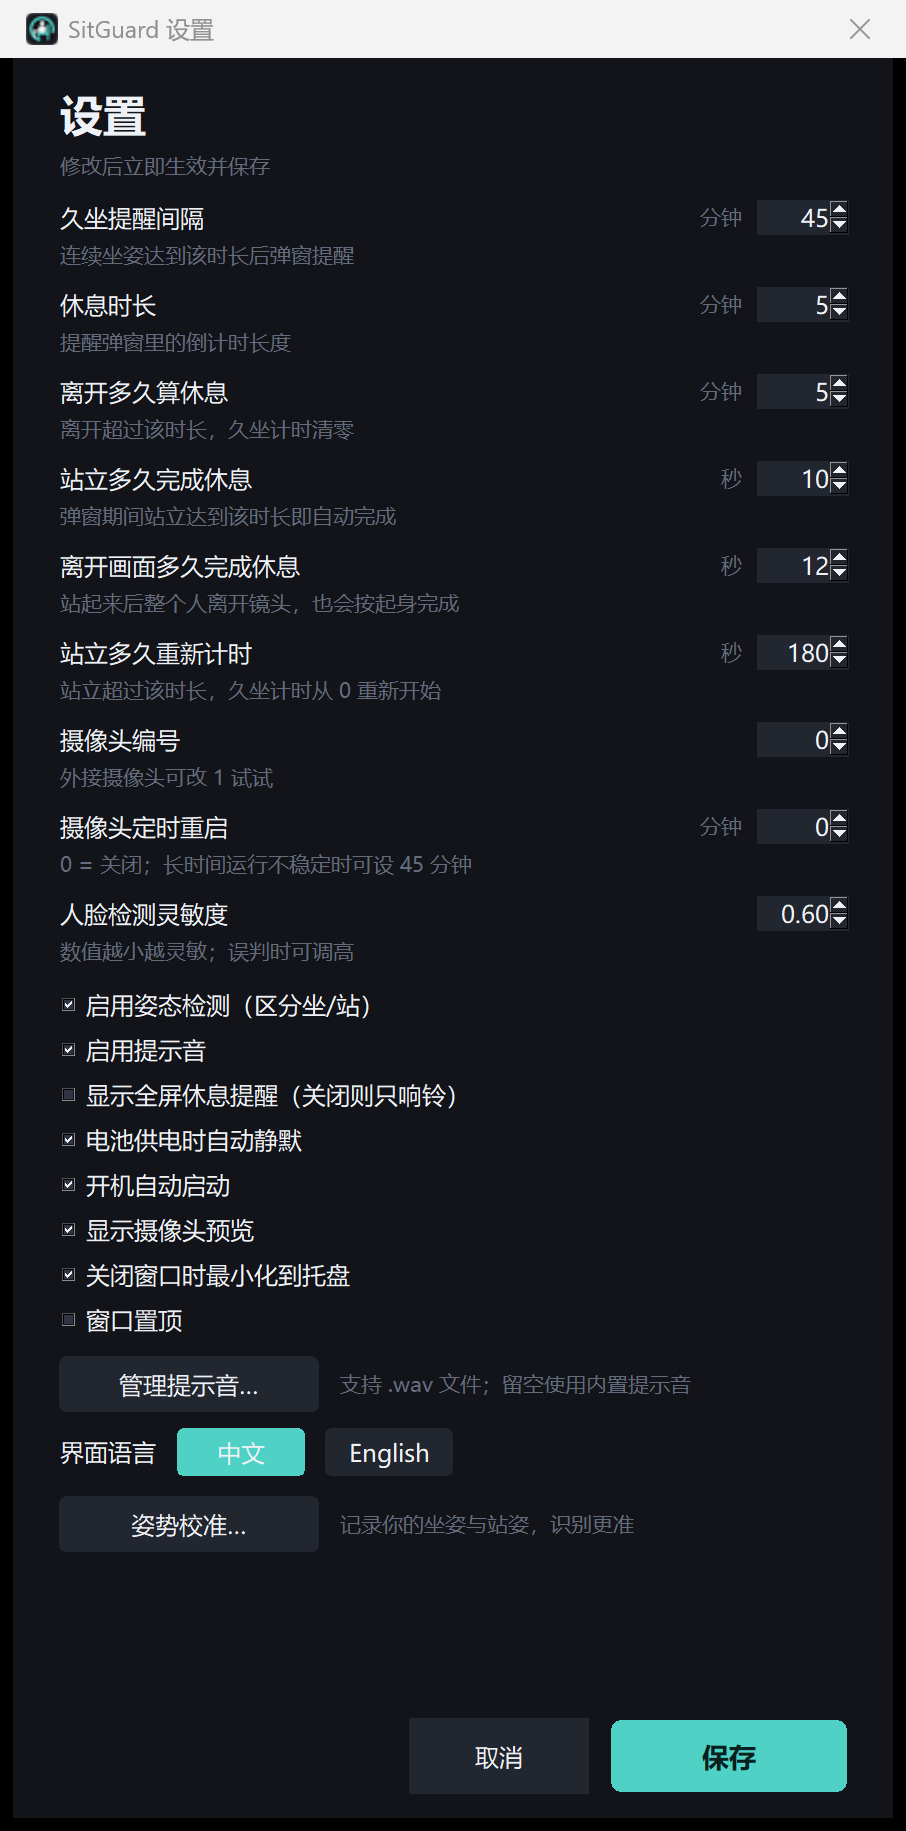
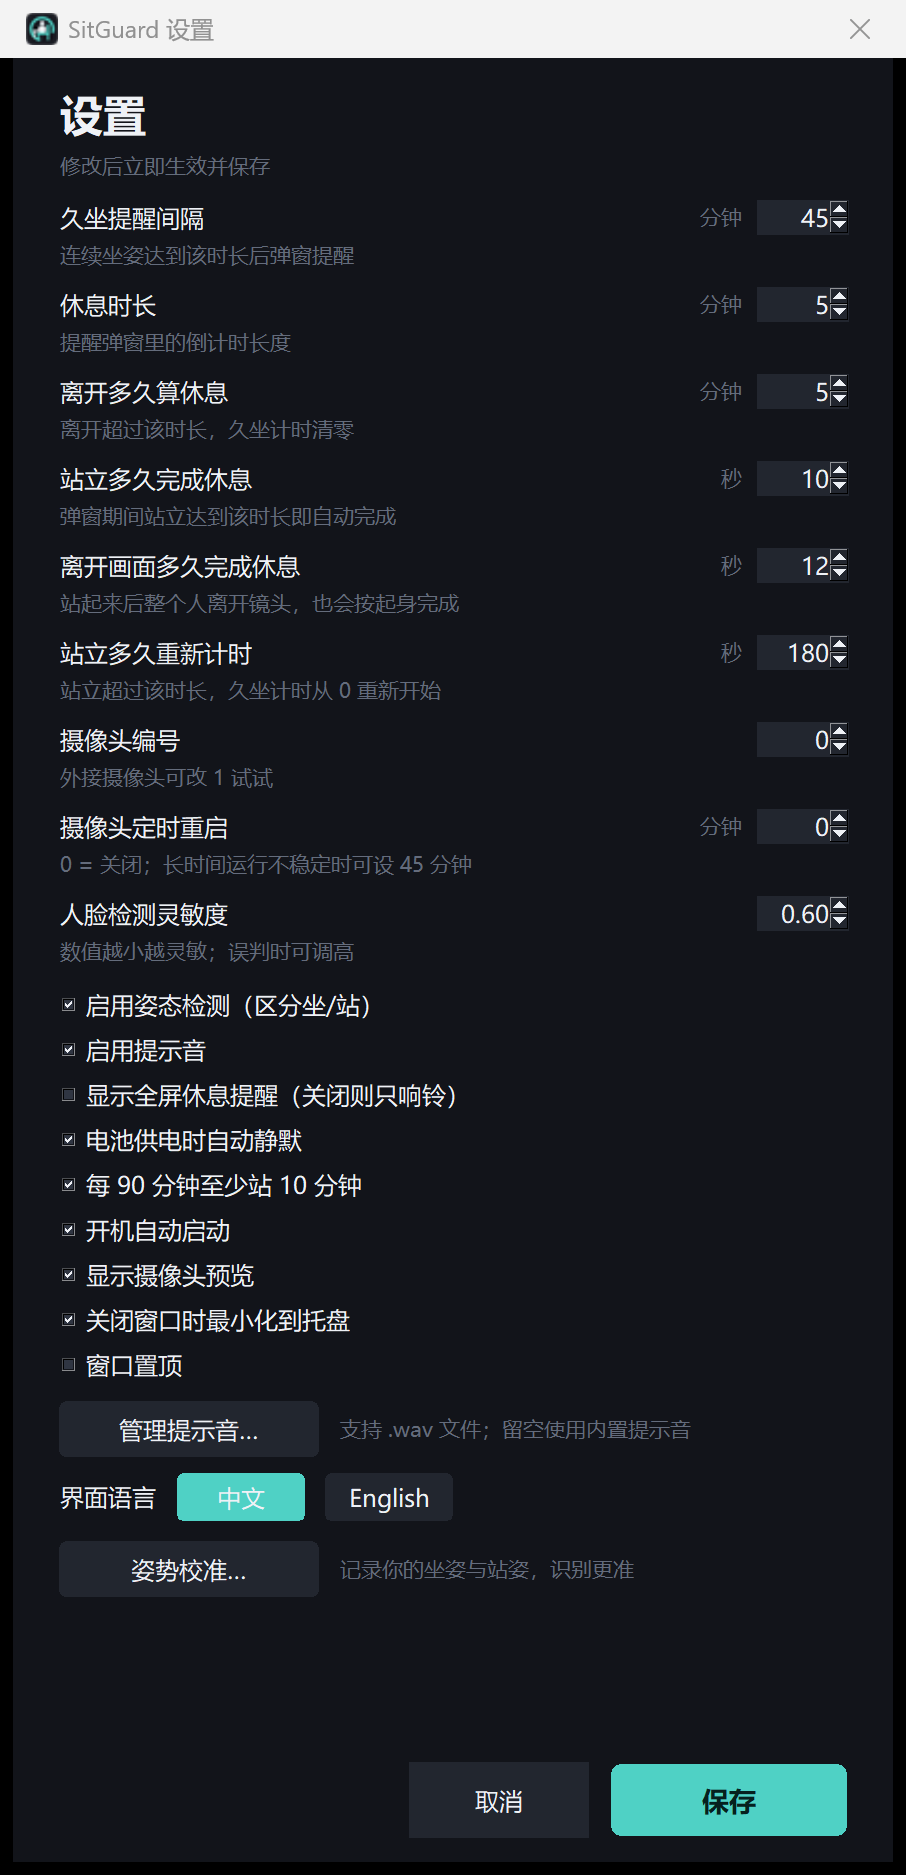
feat: remind when standing time is under 10 min in 90 min
Track rolling standing time from activity segments and send a gentle toast plus optional sound when less than 10 minutes were spent standing in the last 90 minutes. Skips breaks, pauses and away periods, repeats at most every 30 minutes, and can be disabled in Settings.

diff --git a/sitguard/app.py b/sitguard/app.py
@@ -91,6 +91,9 @@ class App:
         self._confirmed_posture: str | None = None
         self._posture_confirmed_at = 0.0
         self._last_posture_sound = 0.0
+        self._stand_goal_started = time.monotonic()
+        self._stand_goal_last = 0.0
+        self._last_stand_check = 0.0
         self._last_stats_save = time.monotonic()
         self._last_preview = 0.0
         self._tray = None
@@ -357,6 +360,7 @@ class App:
             self.engine.tick(now)
             self._track_posture(now)
             self._track_activity()
+            self._check_stand_goal(now)
             try:
                 view = bool(self.root.winfo_exists()) and self.root.state() != "withdrawn"
             except tk.TclError:
@@ -524,6 +528,44 @@ class App:
         if self._booted:
             key = "toast_silent_on" if active else "toast_silent_off"
             self.notify(i18n.t(key), ui.ACCENT if active else ui.TEXT_DIM)
+
+    def _check_stand_goal(self, now: float) -> None:
+        """滚动窗口内站立不足时给一次温和提醒。"""
+        cfg = self.config
+        if not cfg.stand_goal_enabled:
+            return
+        if now - self._last_stand_check < 20.0:
+            return
+        self._last_stand_check = now
+        window = cfg.stand_goal_window_minutes * 60.0
+        if now - self._stand_goal_started < window:
+            return
+        if self.engine.phase in (Phase.BREAK, Phase.PAUSED):
+            return
+        snap = self.engine.snapshot(self._camera_state, self._camera_message,
+                                    self._camera_snapshot.status.pose_ok)
+        if not snap.present or snap.posture == "standing":
+            return
+        end = time.time()
+        start = end - window
+        standing = self.activity.seconds_between("standing", start, end)
+        sitting = self.activity.seconds_between("sitting", start, end)
+        if sitting < min(1800.0, window * 0.3):
+            return
+        goal = cfg.stand_goal_minutes * 60.0
+        if standing >= goal:
+            self._stand_goal_last = 0.0
+            return
+        repeat = cfg.stand_goal_repeat_minutes * 60.0
+        if self._stand_goal_last and now - self._stand_goal_last < repeat:
+            return
+        self._stand_goal_last = now
+        self.notify(i18n.t("toast_stand_goal", w=cfg.stand_goal_window_minutes,
+                           s=i18n.fmt_duration(standing)), ui.WARN, ms=4500)
+        if cfg.sound and not self.is_silent():
+            sound.reminder_sound(cfg.sound_file, cfg.sound_name)
+        log.info("站立不足提醒：%.0f 秒 / %d 分钟窗口", standing,
+                 cfg.stand_goal_window_minutes)
 
     def _track_posture(self, now: float) -> None:
         snap = self.engine.snapshot(self._camera_state, self._camera_message,

diff --git a/sitguard/views.py b/sitguard/views.py
@@ -879,7 +879,7 @@ class SettingsWindow:
         win.configure(bg=ui.BG)
         win.resizable(False, False)
         win.transient(self.root)
-        ui.center_window(win, ui.dp(440), ui.dp(880), anchor="center")
+        ui.center_window(win, ui.dp(440), ui.dp(902), anchor="center")
         win.protocol("WM_DELETE_WINDOW", self.close)
 
         body = tk.Frame(win, bg=ui.BG)
@@ -918,6 +918,7 @@ class SettingsWindow:
         self._check(body, "chk_sound", "sound")
         self._check(body, "chk_overlay", "overlay_enabled")
         self._check(body, "chk_auto_silent", "auto_silent_on_battery")
+        self._check(body, "chk_stand_goal", "stand_goal_enabled")
         self._check(body, "chk_autostart", "autostart")
         self._check(body, "chk_preview", "show_preview")
         self._check(body, "chk_tray", "minimize_to_tray")
@@ -1008,6 +1009,7 @@ class SettingsWindow:
         self.vars["sound"].set(cfg.sound)
         self.vars["overlay_enabled"].set(cfg.overlay_enabled)
         self.vars["auto_silent_on_battery"].set(cfg.auto_silent_on_battery)
+        self.vars["stand_goal_enabled"].set(cfg.stand_goal_enabled)
         self.vars["autostart"].set(cfg.autostart)
         self.vars["show_preview"].set(cfg.show_preview)
         self.vars["minimize_to_tray"].set(cfg.minimize_to_tray)
@@ -1032,6 +1034,7 @@ class SettingsWindow:
         cfg.sound = bool(self.vars["sound"].get())
         cfg.overlay_enabled = bool(self.vars["overlay_enabled"].get())
         cfg.auto_silent_on_battery = bool(self.vars["auto_silent_on_battery"].get())
+        cfg.stand_goal_enabled = bool(self.vars["stand_goal_enabled"].get())
         cfg.autostart = bool(self.vars["autostart"].get())
         cfg.show_preview = bool(self.vars["show_preview"].get())
         cfg.minimize_to_tray = bool(self.vars["minimize_to_tray"].get())

diff --git a/sitguard/config.py b/sitguard/config.py
@@ -74,6 +74,10 @@ class Config:
     stand_sound: str = "stand_up" # 站起提示音
     silent_mode: bool = False     # 静默模式：无声音、无全屏，只右下角提示
     auto_silent_on_battery: bool = True
+    stand_goal_enabled: bool = True
+    stand_goal_window_minutes: int = 90
+    stand_goal_minutes: int = 10
+    stand_goal_repeat_minutes: int = 30
     overlay_enabled: bool = True    # 是否显示全屏提醒；关闭则只响铃
     sound_repeat: int = 3            # 提醒音重复次数
     snooze_minutes: int = 5          # 临时推迟
@@ -114,6 +118,10 @@ class Config:
         c.stand_sound = str(c.stand_sound or "stand_up")
         c.silent_mode = bool(c.silent_mode)
         c.auto_silent_on_battery = bool(c.auto_silent_on_battery)
+        c.stand_goal_enabled = bool(c.stand_goal_enabled)
+        c.stand_goal_window_minutes = int(clamp(c.stand_goal_window_minutes, 30, 240))
+        c.stand_goal_minutes = int(clamp(c.stand_goal_minutes, 5, 60))
+        c.stand_goal_repeat_minutes = int(clamp(c.stand_goal_repeat_minutes, 10, 120))
         c.overlay_enabled = bool(c.overlay_enabled)
         c.snooze_minutes = int(clamp(c.snooze_minutes, 1, 120))
         c.auto_snooze_minutes = int(clamp(c.auto_snooze_minutes, 1, 30))

diff --git a/tests/test_daylog.py b/tests/test_daylog.py
@@ -80,6 +80,19 @@ class TestActivityTracker(unittest.TestCase):
         self.now += 60
         keys = self.tracker.all_days(self.now)
         self.assertIn(datetime.fromtimestamp(self.now).date().isoformat(), keys)
+
+    def test_seconds_between(self):
+        t = self.tracker
+        t.update("sitting", self.now)
+        self.now += 600
+        t.update("standing", self.now)
+        self.now += 120
+        t.update("sitting", self.now)
+        end = self.now
+        stand = t.seconds_between("standing", end - 900, end)
+        self.assertAlmostEqual(stand, 120, delta=1)
+        sit = t.seconds_between("sitting", end - 900, end)
+        self.assertAlmostEqual(sit, 600, delta=1)
     def test_persisted_shape(self):
         self.tracker.update("sitting", self.now)
         self.now += 60

diff --git a/sitguard/daylog.py b/sitguard/daylog.py
@@ -130,6 +130,17 @@ class ActivityTracker:
         segs.sort(key=lambda x: x[0])
         return segs
 
+    def seconds_between(self, kind: str, start: float, end: float,
+                        now: float | None = None) -> float:
+        """统计 [start, end) 内某状态的时长，支持跨午夜。"""
+        total = 0.0
+        for key in {_day_key(start), _day_key(end)}:
+            for s, e, k in self.segments_for(key, now):
+                if k != kind:
+                    continue
+                total += max(0.0, min(e, end) - max(s, start))
+        return total
+
     def totals_for(self, key: str, now: float | None = None) -> dict[str, float]:
         totals = {k: 0.0 for k in KINDS}
         for start, end, kind in self.segments_for(key, now):

diff --git a/sitguard/i18n.py b/sitguard/i18n.py
@@ -200,6 +200,10 @@ _T = {
                     "Show full-screen break reminder (off = sound only)"),
     "chk_auto_silent": ("电池供电时自动静默",
                        "Silent mode on battery power"),
+    "chk_stand_goal": ("每 90 分钟至少站 10 分钟",
+                       "Stand at least 10 min every 90 min"),
+    "toast_stand_goal": ("过去 {w} 分钟只站了 {s}，起来活动一下吧",
+                         "Only {s} standing in the last {w} min — time to move"),
     "silent": ("静音", "Silent"),
     "silent_active": ("静默", "Muted"),
     "toast_silent_on": ("已进入静默/省电模式：只保留右下角提示",

diff --git a/README.md b/README.md
@@ -24,6 +24,9 @@ as soon as you stand.
   12 seconds, or click a button (instant).
 - **3-minute rule** — standing for 3 minutes before the reminder restarts the
   sitting timer from zero.
+- **Stand goal** — if you stand for less than 10 minutes across any rolling
+  90-minute window, a gentle toast and sound nudge you to move (can be turned
+  off in Settings).
 - **Sound-only mode** — hide the full-screen reminder; the app still plays
   the alert and re-reminds you every 5 minutes while you keep sitting.
 - **No main-window pop-up** — after you stand, only a small desktop toast
@@ -118,6 +121,7 @@ frame” and treats losing sight of you as standing up.
 | Restart sitting after standing | 3 min | Standing this long restarts the sitting timer |
 | Camera index | 0 | Try 1 for an external camera |
 | Restart camera every | 0 (off) | Periodic soft reset for unstable drivers; try 45 min |
+| Stand goal | on | Nudge when standing < 10 min in the last 90 min |
 | Face detection sensitivity | 0.60 | Lower = more sensitive |
 | Full-screen reminder | on | Off = sound only, with a repeat every 5 minutes |
 | Silent on battery | on | Auto silent/power-save when unplugged |

diff --git a/README_ZH.md b/README_ZH.md
@@ -68,6 +68,7 @@ English UI:
 | 起身自动完成 | 站立 10 秒，或整个人离开画面 12 秒 → 自动完成休息 |
 | 立即关闭 | 「我站起来了」「关闭本次提醒」点一下立即结束，不再卡住 |
 | 离开/站立重置 | 站立或离开超过 3 分钟，久坐计时从 0 重新开始 |
+| 站立目标 | 任意滚动 90 分钟内站立不足 10 分钟，会轻声提醒一次（设置里可关） |
 | 今日统计 | 今日累计在座、完成休息次数、提醒次数 |
 | 托盘常驻 | 关闭窗口不退出；托盘菜单可暂停、立即休息、结束休息、今日统计、开关摄像头 |
 | 活动统计 | 每段记录开始/结束时间；当天明细列出几点坐下、站起、离开，附近 7 天平均；无限保留，可按日期查看 |
